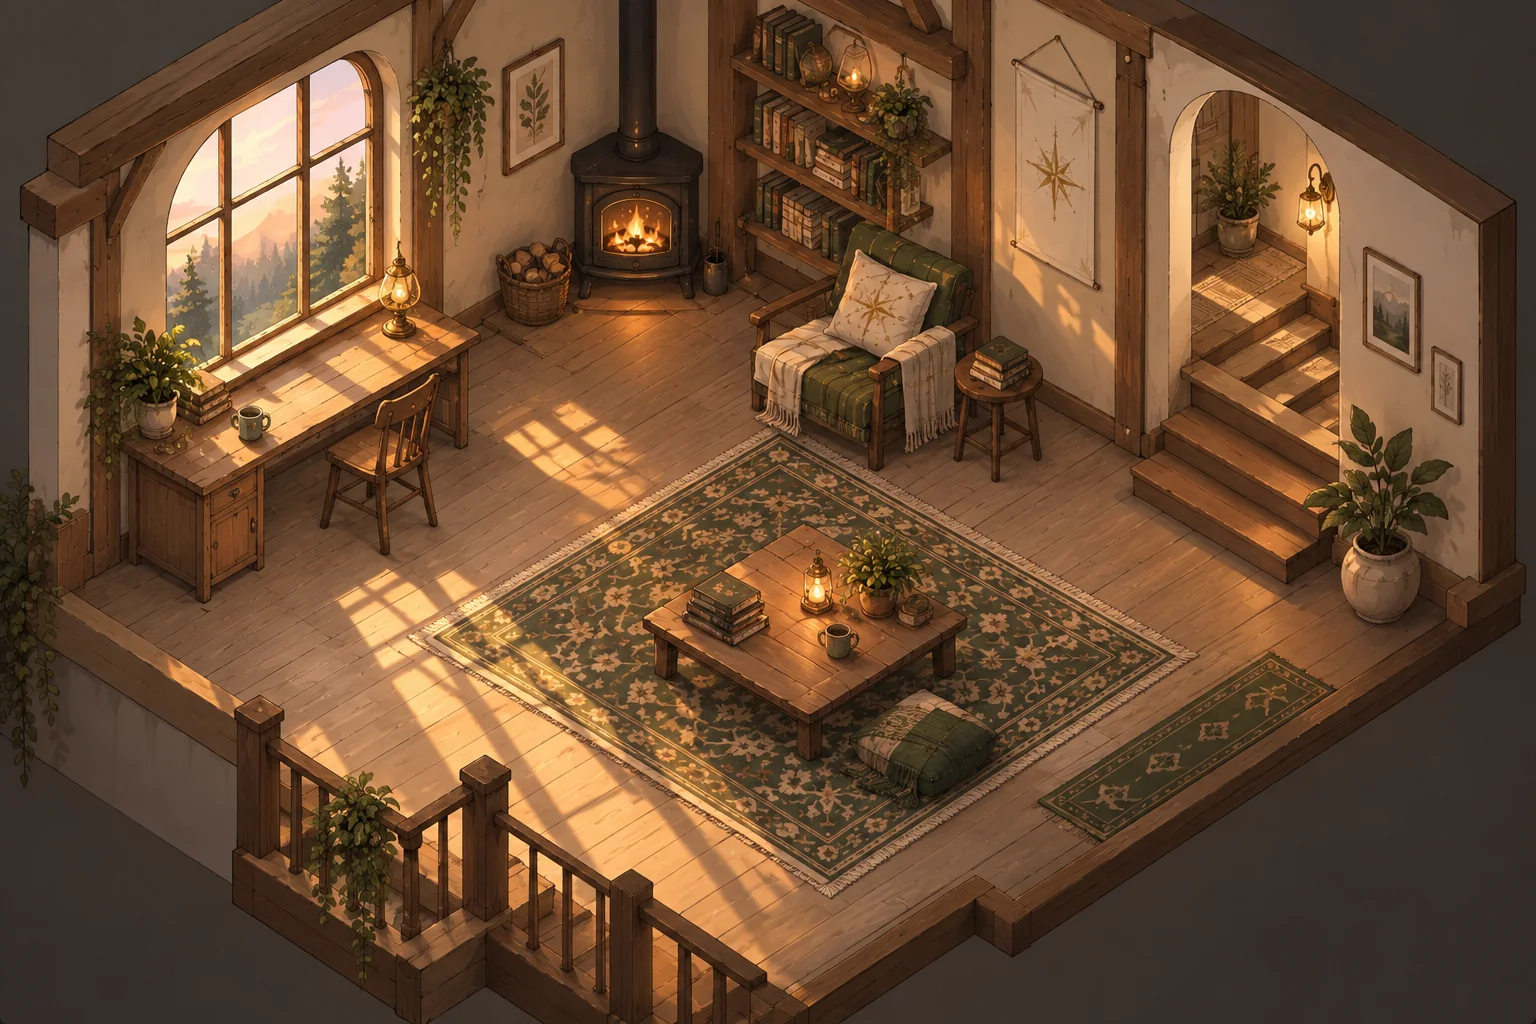
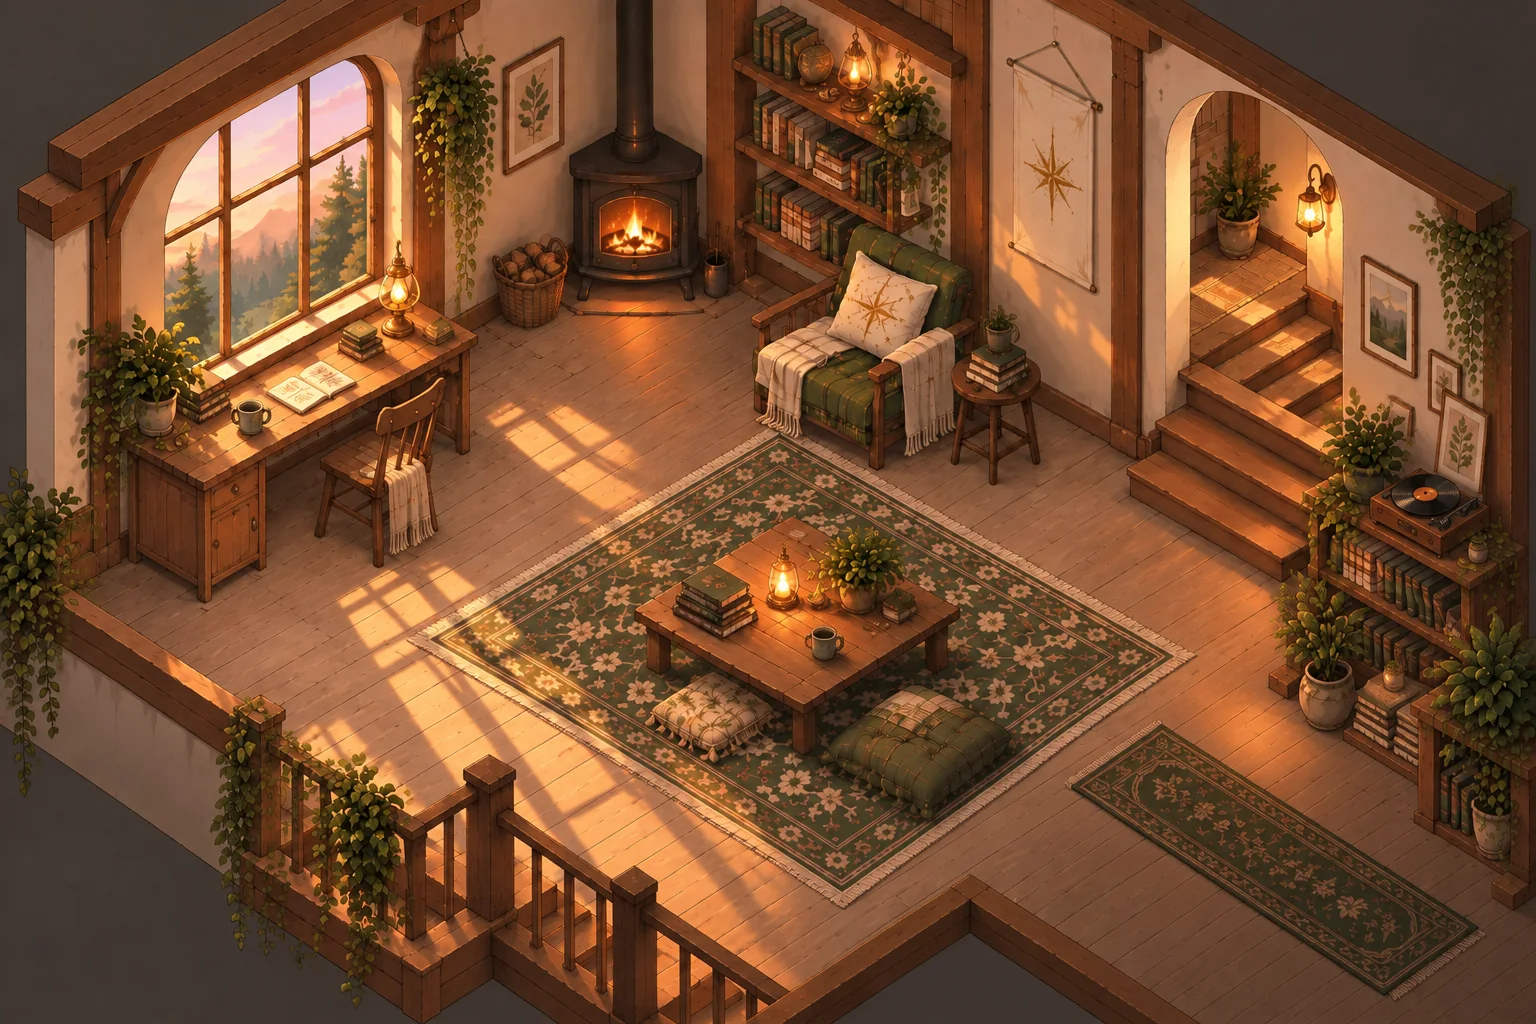
ux: Home's room repainted — public/home-room.webp regenerated from Chanté's revised art/scenery/home-background.png (same 1536×1024, WebP quality 84): more open floor for Lumi to wander, a second bookshelf and record player on the right, floor cushions at the table, an open book on the desk. Checked

diff --git a/art/README.md b/art/README.md
@@ -3,7 +3,7 @@
 Source art, never served. Three folders:
 
 - `lumi/` — Lumi's source drawings, the sheets her sprites are cut from. Kept in the repo so the cut can be redone.
-- `scenery/` — the painted rooms. `scenery/home-background.png` is the room behind Home (not a sheet — served as `public/home-room.webp`, 1536×1024 at quality 84; `docs/design-system.md` → Home: the room). `scenery/today-mockup.png` is a mockup for Today, not served.
+- `scenery/` — the painted rooms. `scenery/home-background.png` is the room behind Home (not a sheet — served as `public/home-room.webp`, 1536×1024 at quality 84; `docs/design-system.md` → Home: the room). Regenerate after a repaint with `python3 -c "from PIL import Image; Image.open('art/scenery/home-background.png').convert('RGB').save('public/home-room.webp','WEBP',quality=84,method=6)"` (repainted 2026-09-12 to give Lumi more floor to wander). `scenery/today-mockup.png` is a mockup for Today, not served.
 - `archived/` — the earlier character (Rali) and the scene mockups; nothing here is cut or served. The scripts still read `archived/rali-slow-idle.png` as the height reference (`scripts/measure-lumi-sheet.py` → `REF`).
 
 | Sheet | What it is | Used by |
